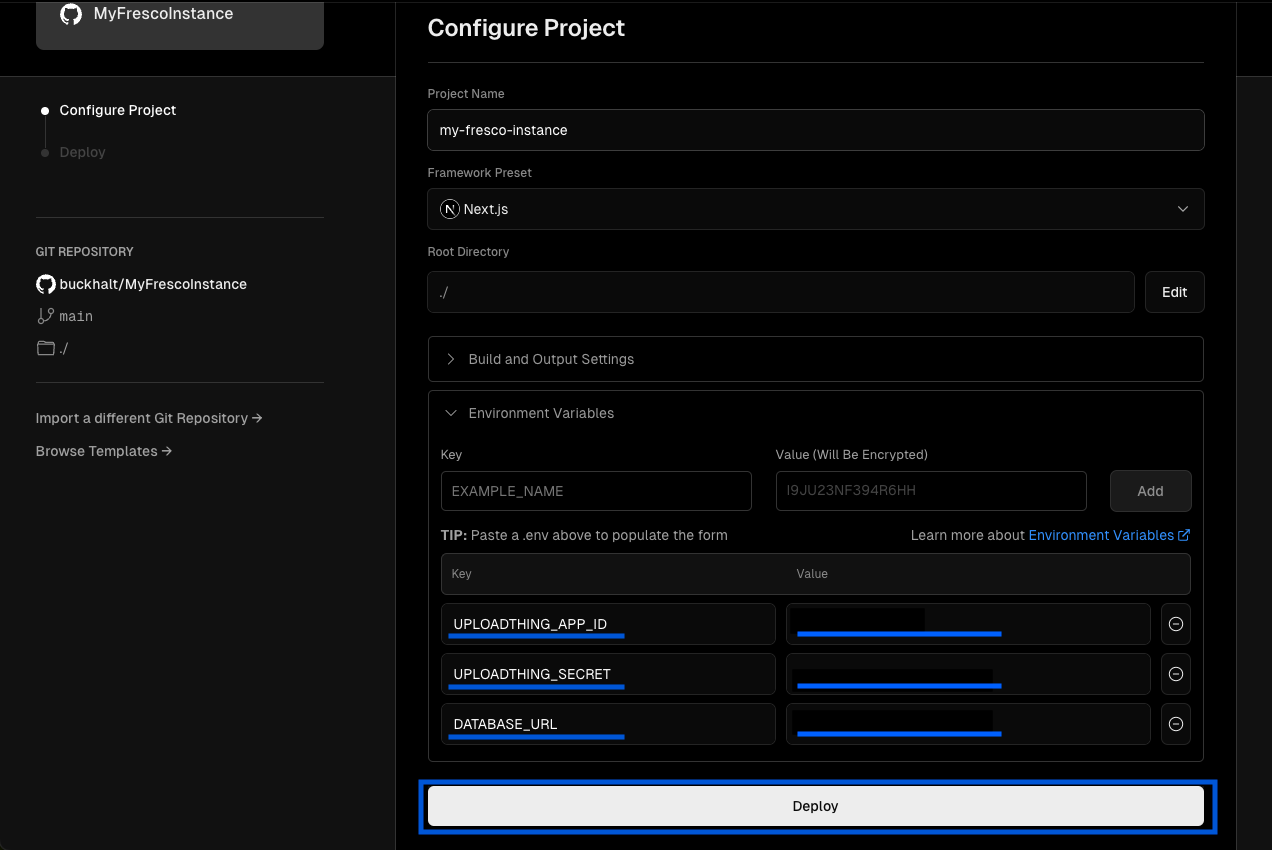
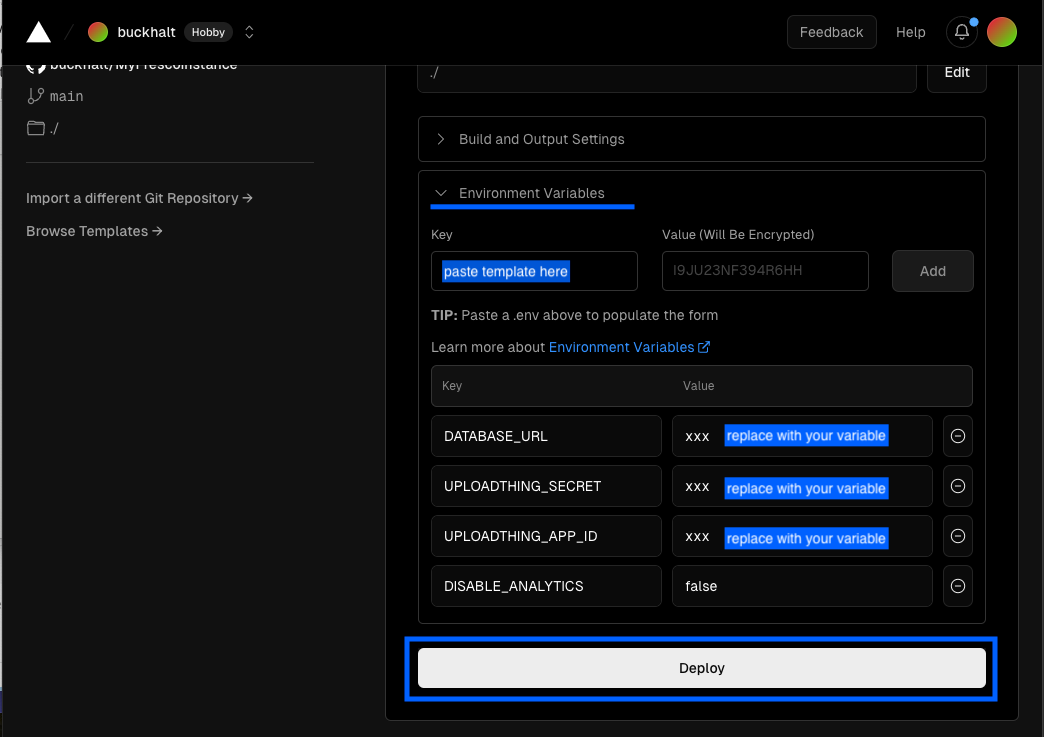
add in copy paste and screenshots for it

diff --git a/README.md b/README.md
@@ -129,9 +129,7 @@ _Prerequisite:_ You need to have a Vercel account. Go to <a href="https://vercel
 
 Sign in to Vercel via your Github account so that you can easily connect your repositories. You can use their "Hobby" tier or paid plan.
 
-1. From the <a href="https://vercel.com/dashboard" target="_blank">Vercel Dashboard</a>, click **Add new...** and select **Project** from the dropdown.
-
-   ![Add new project on Vercel](/public/images/readme-screenshots/vercel1.png)
+1. <a href="https://vercel.com/new" target="_blank">Create a new Project</a>
 
 2. Import Git Repository
 
@@ -141,7 +139,14 @@ Find your Fresco instance from the list of your git repositories and click **Imp
 
 3. Configure Project.
 
-   Provide the required environment variable values from the services you set up in [Step 1](#step-1) and [Step 2](#step-2). Use the Variable Keys from the table below.
+   Copy the template below and paste it into the Environment Variables section in Vercel to prepopulate the form with the required environment variables.
+
+   Replace the values with your environment variable values from the services you set up in [Step 1](#step-1) and [Step 2](#step-2).
+
+> DATABASE_URL=xxx\
+> UPLOADTHING_SECRET=xxx\
+> UPLOADTHING_APP_ID=xxx\
+> DISABLE_ANALYTICS=false
 
 | Variable Key       | Description                                                                                                                                                                                                                                    |
 | ------------------ | ---------------------------------------------------------------------------------------------------------------------------------------------------------------------------------------------------------------------------------------------- |
@@ -152,7 +157,7 @@ Find your Fresco instance from the list of your git repositories and click **Imp
 
 > **_NOTE_**: We use analytics to gather error data from instances of Fresco to troubleshoot issues. By leaving `DISABLE_ANALYTICS` set to `false` (the default) you will help us identify bugs and improve the app.
 
-![Deploy on Vercel2](public/images/readme-screenshots/vercel-configure.png)
+![Configure Environment Variables](public/images/readme-screenshots/vercel-configure.png)
 
 > **_NOTE_**: When entering the environment variables, do not include the variable keys in the inputs(e.g: `UPLOADTHING_SECRET=`). You should enter the value of the variable which starts after `=` symbol (e.g: `sk_live_xxxx`)
 
